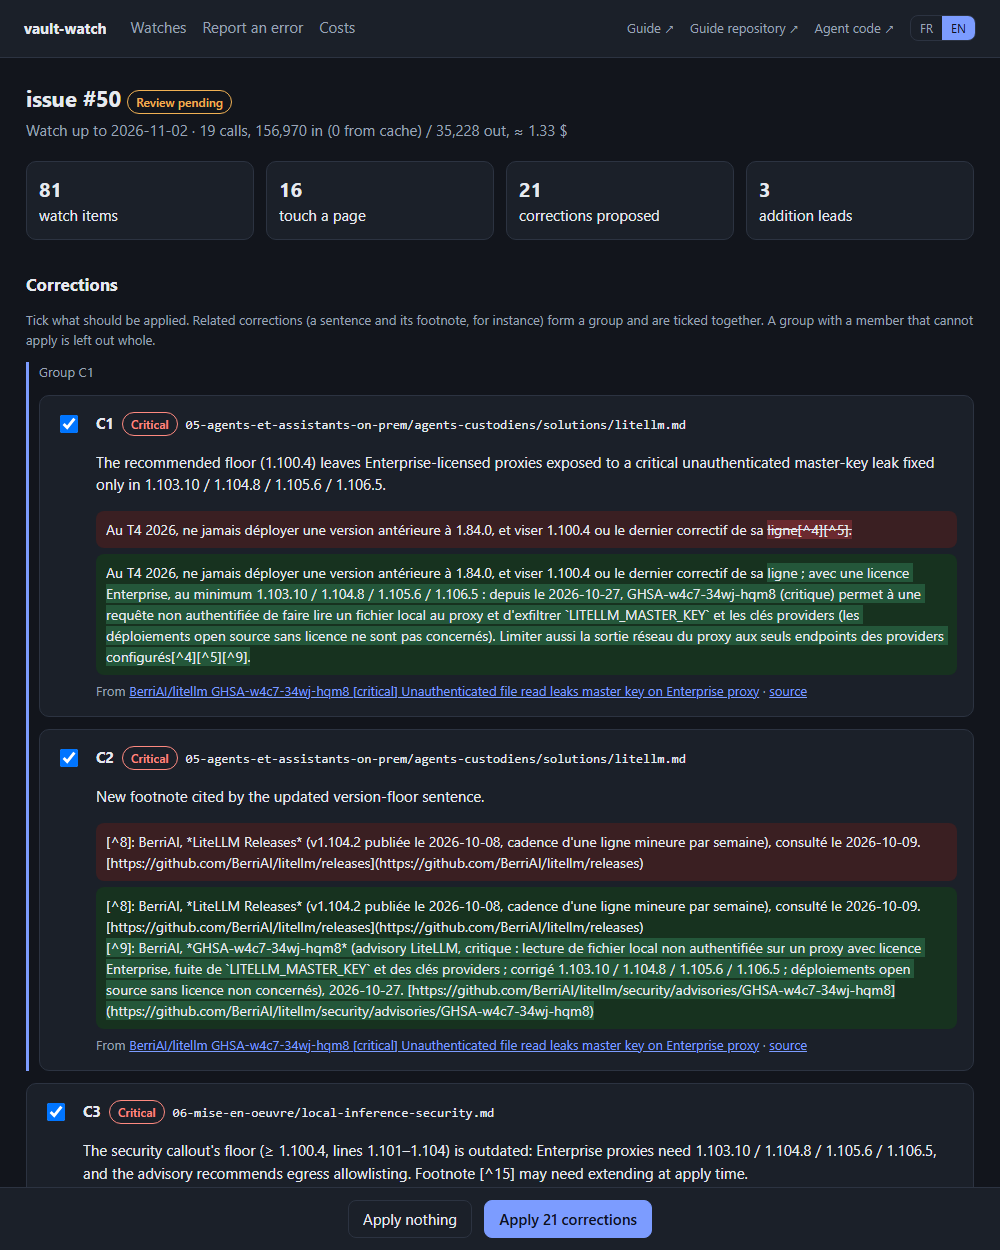
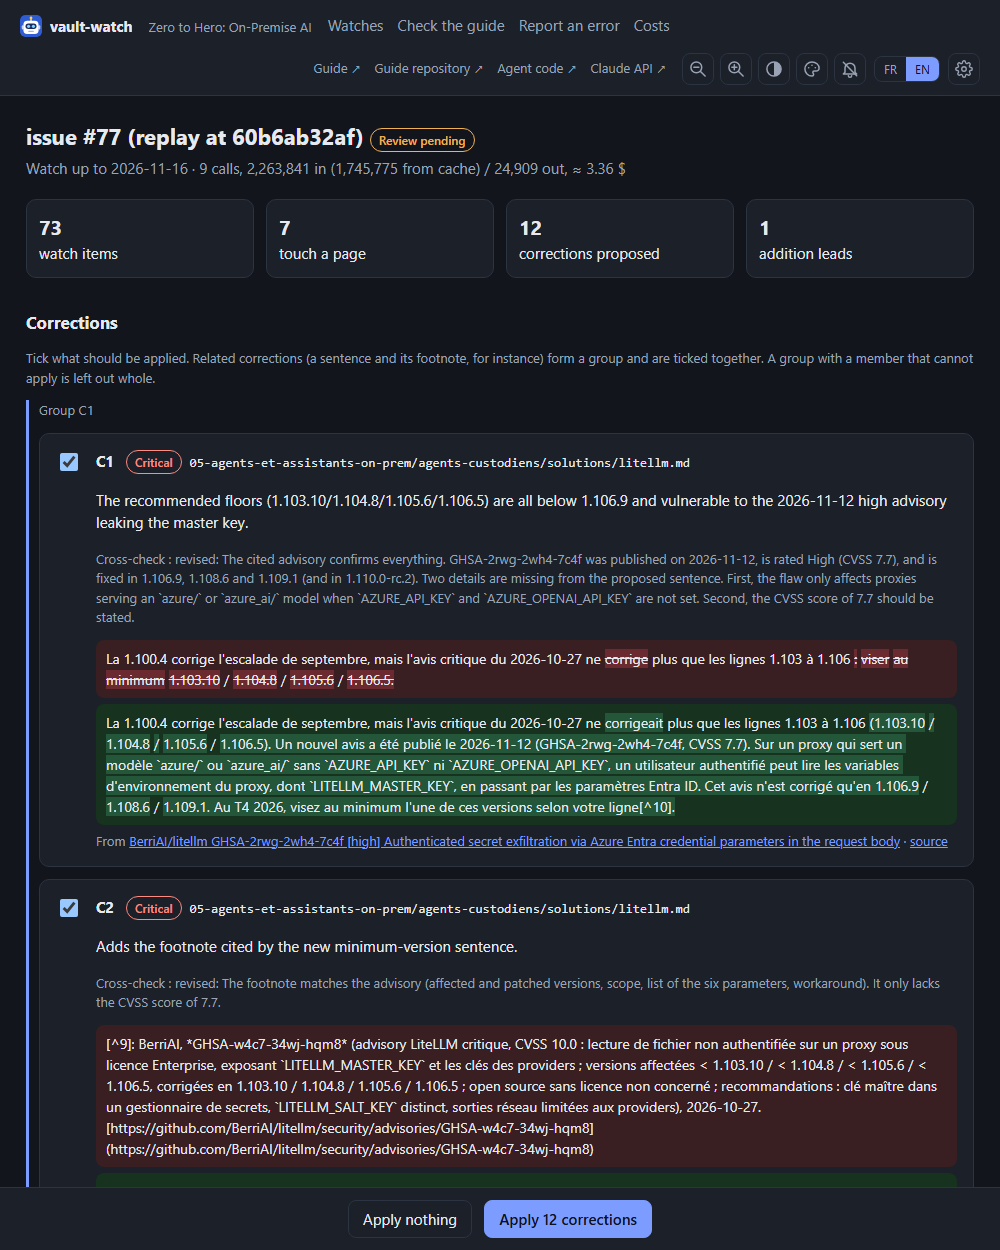
READMEs: the review screen after the introduction (new capture, EN and FR), what the repository shows, the guide's pull requests as a count; the colon follows the interface language

diff --git a/src/vault_watch_agent/static/app.js b/src/vault_watch_agent/static/app.js
@@ -66,7 +66,7 @@ const TEXTS = {
     canClose: "Tu peux fermer la page : l'analyse continue sur le serveur, et l'état est enregistré à chaque étape.",
     progress: (min, cost) => `Démarré il y a ${min} min · coût de ce passage ≈ ${cost}`,
     applyId: id => `Appliquer ${id}`,
-    crossCheck: "Relecture globale", from: "D'après",
+    crossCheck: "Relecture globale", from: "D'après", colon: " : ",
     sourceMissing: "Source à vérifier", leftovers: n => `Valeurs retirées encore présentes, laissées telles quelles (${n})`,
     reviewFigures: ["éléments de veille", "touchent une page", "corrections proposées", "pistes d'ajout"],
     corrections: "Corrections",
@@ -167,7 +167,7 @@ const TEXTS = {
     canClose: "You can close the page: the analysis goes on in the server, and the state is saved after each step.",
     progress: (min, cost) => `Started ${min} min ago · cost of this run ≈ ${cost}`,
     applyId: id => `Apply ${id}`,
-    crossCheck: "Cross-check", from: "From",
+    crossCheck: "Cross-check", from: "From", colon: ": ",
     sourceMissing: "Source to check", leftovers: n => `Removed values still present, left as they are (${n})`,
     reviewFigures: ["watch items", "touch a page", "corrections proposed", "addition leads"],
     corrections: "Corrections",
@@ -407,8 +407,8 @@ function correctionCard(c, r) {
       <div class="header"><b>${c.id}</b><span class="badge ${c.severity}">${c.severity}</span><code>${esc(c.page)}</code>
         ${valid ? "" : `<span class="badge error">${esc(c.check)}</span>`}</div>
       <p>${esc(c.rationale)}</p>
-      ${c.review ? `<p class="muted small">${T.crossCheck} : ${esc(c.review)}</p>` : ""}
-      ${c.warning ? `<p class="small">⚠ ${T.sourceMissing} : ${esc(c.warning)}</p>` : ""}
+      ${c.review ? `<p class="muted small">${T.crossCheck}${T.colon}${esc(c.review)}</p>` : ""}
+      ${c.warning ? `<p class="small">⚠ ${T.sourceMissing}${T.colon}${esc(c.warning)}</p>` : ""}
       <div class="diff before" lang="fr">${before}</div>
       <div class="diff after" lang="fr">${after}</div>
       <div class="muted small">${T.from} ${sources || "—"}${c.source_url ? ` · ${extLink(c.source_url, "source")}` : ""}</div>
@@ -431,7 +431,7 @@ function viewReview(r, title) {
       ? `<div class="group"><p class="muted small">${T.group(g)}${broken.has(g) ? T.groupLeftOut : ""}</p>${cs.map(c => correctionCard(c, r)).join("")}</div>`
       : correctionCard(cs[0], r)).join("") || `<p class="muted">${T.noCorrection}</p>`}
     <details><summary>${T.leads(r.additions.length)}</summary>
-      <ul>${r.additions.map(a => `<li>${a.url ? extLink(a.url, esc(a.title)) : esc(a.title)} : ${esc(a.reason)}</li>`).join("") || `<li>${T.none}</li>`}</ul></details>
+      <ul>${r.additions.map(a => `<li>${a.url ? extLink(a.url, esc(a.title)) : esc(a.title)}${T.colon}${esc(a.reason)}</li>`).join("") || `<li>${T.none}</li>`}</ul></details>
     <details><summary>${T.noticed(r.findings.length)}</summary>
       <ul>${r.findings.map(f => `<li>${esc(f)}${excerpts(r.finding_excerpts?.[f])}</li>`).join("") || `<li>${T.nothing}</li>`}</ul>
       ${r.findings.length ? `<p class="muted small">${T.noticedHelp}</p>` : ""}</details>
@@ -502,7 +502,7 @@ function viewEnd(r, title) {
     <div class="card"><p>${text}</p>
       ${r.error ? `<p class="error-text">${esc(r.error)}</p>` : ""}
       ${r.status === "stopped" ? `<button class="primary" id="resume">${T.resume}</button>` : ""}</div>
-    ${r.applied.length ? `<p>${T.applied} : ${r.applied.join(", ")}</p>` : ""}
+    ${r.applied.length ? `<p>${T.applied}${T.colon}${r.applied.join(", ")}</p>` : ""}
     ${r.report_path ? `<p class="small"><a href="/api/runs/${encodeURIComponent(r.thread)}/report" target="_blank">${T.report}</a></p>` : ""}`;
   const b = $("#resume");
   if (b) b.onclick = async () => { b.disabled = true; await api(`/api/runs/${encodeURIComponent(r.thread)}/resume`, {}); route(); };

diff --git a/README.fr.md b/README.fr.md
@@ -33,9 +33,31 @@ page fausse, propose des corrections sourcées, attend une relecture humaine, le
 jour le miroir anglais, lance les contrôles et la vérification des liens du guide puis, après un second accord,
 ouvre la pull request.
 
-Il a produit les pull requests [#51](https://github.com/DamienBecherini/ia-on-prem-vault/pull/51),
-[#53](https://github.com/DamienBecherini/ia-on-prem-vault/pull/53) et
-[#54](https://github.com/DamienBecherini/ia-on-prem-vault/pull/54) du guide, toutes relues et fusionnées.
+Depuis la 0.3.0, il peut tenir n'importe quel guide en Markdown décrit par un manifeste qui lui est propre :
+voir [Brancher son guide](docs/connect-your-guide.fr.md).
+
+![L'écran de relecture : chaque correction proposée avec sa source, l'avis de la relecture globale et le diff mot à mot de la page, cochée ou non par l'éditeur avant toute application](docs/review.fr.png)
+
+*L'écran de relecture sur une vraie veille du guide (avis de sécurité de LiteLLM) : rien n'est écrit dans le guide
+avant que l'éditeur ait coché les corrections, et rien n'est publié sans un second accord.*
+
+## Ce que montre ce dépôt
+
+- Un `StateGraph` LangGraph sur un état typé (`WatchState`, un `TypedDict` avec des reducers), avec une branche
+  parallèle par groupe d'éléments de veille (`Send`).
+- Deux pauses humaines (`interrupt`, reprises avec `Command`) : la relecture des corrections, puis l'accord pour
+  pousser et ouvrir la pull request. Un checkpointer SQLite garde un passage en pause des jours durant, et un autre
+  processus le reprend (la ligne de commande ou l'interface web).
+- Des sorties structurées : chaque appel au modèle répond dans un modèle Pydantic. Le guide entier (environ 400 k
+  tokens) est lu à travers le cache de prompt.
+- Un journal des coûts, une ligne par appel au modèle ([`metrics/usage.jsonl`](metrics/usage.jsonl)), et une
+  évaluation qui rejoue des veilles passées sur le guide tel qu'il était et note les propositions face à la pull
+  request fusionnée : le 18 novembre 2026, le rejeu de la veille #77 a retrouvé les 11 corrections de
+  [#78](https://github.com/DamienBecherini/ia-on-prem-vault/pull/78), aucune fausse.
+- 124 tests (pytest), une interface web locale (FastAPI) et deux moteurs : Claude Code sur un abonnement Claude, ou
+  l'API Anthropic.
+- Douze pull requests du guide produites par l'agent et fusionnées après relecture, par exemple [#78](https://github.com/DamienBecherini/ia-on-prem-vault/pull/78) (une
+  veille) et [#79](https://github.com/DamienBecherini/ia-on-prem-vault/pull/79) (30 corrections issues d'une vérification de tout le guide).
 
 ```mermaid
 flowchart TD
@@ -173,8 +195,6 @@ le cite, le code le retrouve dans la page, et une citation introuvable est signa
 comme le texte du guide. L'interface est en anglais ou en
 français (bascule dans l'en-tête, langue du navigateur par défaut) ; les corrections elles-mêmes sont en
 français, la langue du guide.
-
-![Écran de relecture](docs/review.png)
 
 Les appels au modèle tournent dans un fil d'exécution par run et chaque étape est enregistrée : on peut fermer
 la page, et un run lancé ici peut être repris en ligne de commande. Le serveur n'écoute que sur 127.0.0.1,

diff --git a/README.md b/README.md
@@ -32,9 +32,30 @@ vendor feeds. This agent does the next step. It decides what makes a page wrong,
 waits for a human review, applies them on a branch, syncs the English mirror, runs the guide's own audits and
 link checks and, after a second go-ahead, opens the pull request.
 
-It produced the pull requests [#51](https://github.com/DamienBecherini/ia-on-prem-vault/pull/51),
-[#53](https://github.com/DamienBecherini/ia-on-prem-vault/pull/53) and
-[#54](https://github.com/DamienBecherini/ia-on-prem-vault/pull/54) of the guide, all reviewed and merged.
+Since 0.3.0 it can keep any Markdown guide described by a manifest of its own: see
+[Connect your guide](docs/connect-your-guide.md).
+
+![The review screen: each proposed correction with its source, the cross-check's verdict and a word-level diff of the page, ticked or not by the editor before anything is applied](docs/review.png)
+
+*The review screen on a real watch of the guide (security advisories of LiteLLM): nothing is written to the guide
+until the editor has ticked the corrections, and nothing is published before a second go-ahead.*
+
+## What this repository shows
+
+- A LangGraph `StateGraph` over a typed state (`WatchState`, a `TypedDict` with reducers), with one parallel branch
+  per group of watch items (`Send`).
+- Two human pauses (`interrupt`, resumed with `Command`): the review of the corrections, then the go-ahead to push
+  and open the pull request. A SQLite checkpointer keeps a paused run for days, and another process resumes it (the
+  command line or the web interface).
+- Structured outputs: every model call answers into a Pydantic model. The whole guide (about 400 k tokens) is read
+  through the prompt cache.
+- A cost journal with one line per model call ([`metrics/usage.jsonl`](metrics/usage.jsonl)), and an evaluation
+  that replays past watches on the guide as it was and scores the proposals against the pull request that was
+  merged: on 18 November 2026, the replay of watch #77 found the 11 corrections of [#78](https://github.com/DamienBecherini/ia-on-prem-vault/pull/78), none wrong.
+- 124 tests (pytest), a local web interface (FastAPI), and two model engines: Claude Code on a Claude subscription,
+  or the Anthropic API.
+- Twelve pull requests of the guide produced by the agent and merged after review, for example [#78](https://github.com/DamienBecherini/ia-on-prem-vault/pull/78) (a
+  watch) and [#79](https://github.com/DamienBecherini/ia-on-prem-vault/pull/79) (30 corrections from a verification of the whole guide).
 
 ```mermaid
 flowchart TD
@@ -167,8 +188,6 @@ bell: notifications of the browser when a run waits for you, ends or fails, whil
 its line number: the model quotes it, the code finds it in the page, and a quote it cannot find is shown as such,
 never as the guide's text. The interface is in English or French (toggle in the header, the browser language by default); the
 corrections themselves are in French, the language of the guide.
-
-![Review screen](docs/review.png)
 
 Model calls run in a background thread per run and every step is checkpointed, so the page can be closed
 and a run started here can be resumed from the command line. The server listens on 127.0.0.1 only, refuses

diff --git a/CHANGELOG.md b/CHANGELOG.md
@@ -3,6 +3,14 @@
 Versions follow the milestones of [phase G of ROADMAP.md](ROADMAP.md#phase-g--a-modular-agent). The version is written
 once, in `src/vault_watch_agent/__init__.py`; `/api/health`, `/api/info` and the page footer show it.
 
+## Unreleased
+
+- READMEs: the review screen right after the introduction (a new capture, English and French, from the replay of
+  watch #77), a « What this repository shows » section, and the pull requests of the guide as a count (twelve)
+  instead of the first three.
+- Interface: the colon follows the language (" : " in French, ": " in English) in the review
+  cards, the addition leads and the applied corrections.
+
 ## 0.3.1 (2026-11-18)
 
 - The runs made before 0.3.0 stay visible once the IA on-prem guide has its manifest: they belong to that guide
